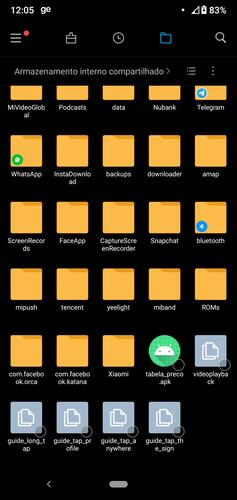
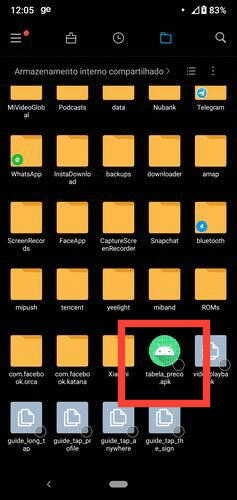
marke in photo

diff --git a/README.md b/README.md
@@ -28,7 +28,7 @@
    Depois clique em instalar  
    <img src="./web/resources/instalar_botao.jpg"  width="200"/>	<br>
 
-   Ele vai dizer que bloqueou a instalação porque vem de fonte desconhecida, mas você pode clicar em "instalar mesmo assim" 
+   Ele vai dizer que bloqueou a instalação porque vem de fonte desconhecida, mas você pode clicar em "instalar mesmo assim"  <br>
    <img src="./web/resources/instalar_mesmo_assim.jpg"  width="200"/>	<br>
 
    Depois de instalado ele vai pedir pra enviar o App pra revisão do google, mas não tem necessidade.  
